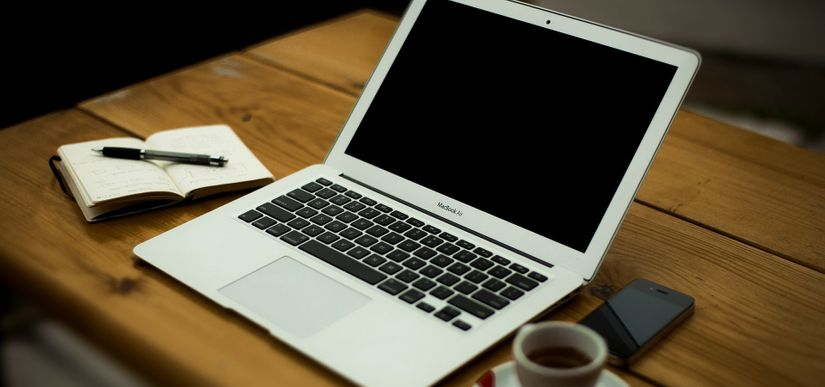
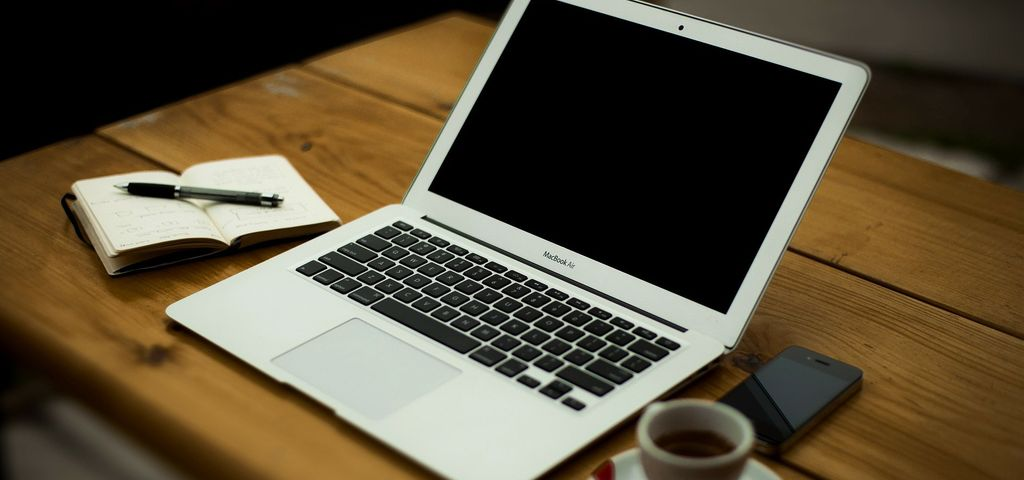
Remove old gulpfile + new thumbnail images

diff --git a/scripts/thumbnails.js b/scripts/thumbnails.js
@@ -27,7 +27,7 @@ const convertImage = (sourceFilePath, resizeOptions, outputFilePath) => {
 
 const resizeFilesInDirectory = async (options) => {
     const {imagesDirectoryPath, destinationImagesPath, fileList, resizeOptions} = options;
-    console.log(options);
+
     await Promise.all(fileList.map(sourceFilePath => {
         const splitSourceImagesPath = sourceFilePath.split(imagesDirectoryPath);
         const outputFilePath = join(destinationImagesPath, splitSourceImagesPath[1]);
@@ -66,23 +66,28 @@ const convertAllDirectoryImages = async (options) => {
     }};
 
 const convertAllFiles = async () => {
-    // const imageDirectories = [
-    //     'banners',
-    //     'games',
-    //     'landingpages',
-    //     'posts',
-    //     'social'
-    // ];
+    const imageDirectories = [
+        {
+            directory: 'banners',
+            resizeOptions: {
+                width: 1024
+            }
+        },
+        {
+            directory: 'social',
+            resizeOptions: {
+                width: 600
+            }
+        }
+    ];
 
-    const resizeOptions = {
-        width: 825,
-        // height: 510
-    };
-
-    await convertAllDirectoryImages({
-        imagesDirectory: 'banners',
-        resizeOptions
-    })
+    await Promise.all(imageDirectories.map((imageDirectoryInfo) => {
+        const {directory, resizeOptions} = imageDirectoryInfo;
+        return convertAllDirectoryImages({
+            imagesDirectory: directory,
+            resizeOptions
+        });
+    }));
 };
 
 convertAllFiles();

diff --git a/.eleventy.js b/.eleventy.js
@@ -23,6 +23,7 @@ module.exports = (eleventyConfig) => {
 
     // Copy
     eleventyConfig.addPassthroughCopy({'src/images': 'images'});
+    eleventyConfig.addPassthroughCopy({'src/thumbnails': 'thumbnails'});
     eleventyConfig.addPassthroughCopy({'src/favicons': 'favicons'});
     eleventyConfig.addPassthroughCopy({'src/robots.txt': 'robots.txt'});
     eleventyConfig.addPassthroughCopy({'src/browserconfig.xml': 'browserconfig.xml'});
